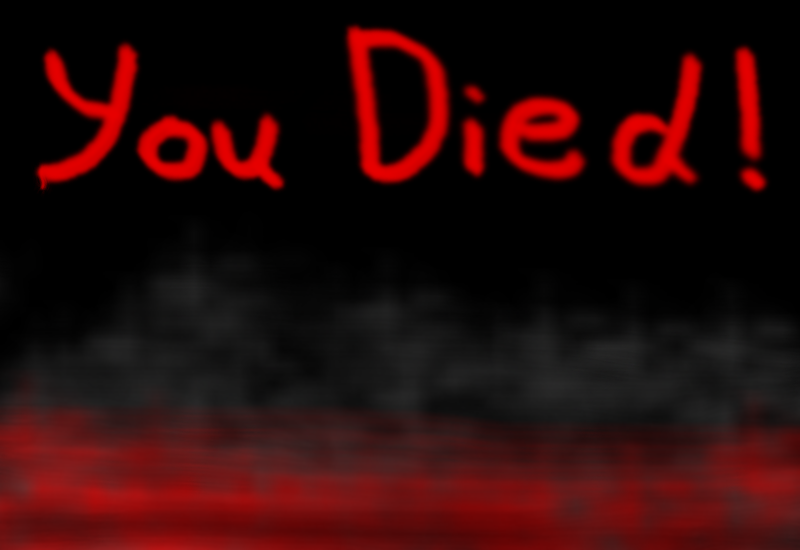
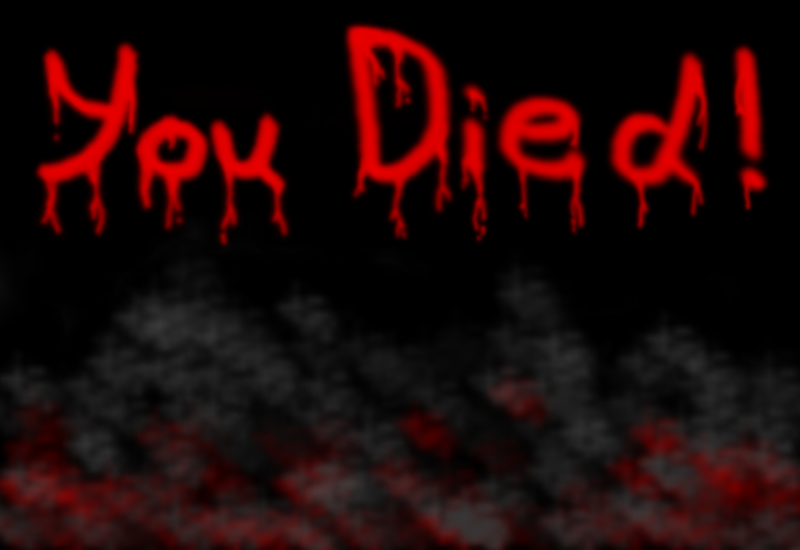
Added a second level

diff --git a/Dungeon Hunter/dungeon_hunter_game.rb b/Dungeon Hunter/dungeon_hunter_game.rb
@@ -1,21 +1,31 @@
 require 'Chingu'
+require './dungeon_hunter_game2.rb'
 
 class Game < Chingu::Window
 
 	def initialize
 		super 800, 550
-		self.caption = "Dungeon Hunter"
+		switch_game_state(PlayGame)
+	end
+
+end
+
+class PlayGame < Chingu::GameState
+
+	def initialize
+		super
+		$window.caption = "Dungeon Hunter"
 		self.input = {esc: :exit}
 		@background_image = Background.create
-		Wall.create(x: 25/2, y: 550/2, image: "left_wall.png")
-		Wall.create(x: 800/2, y: 25/2, image: "wall_up_down.png")
-		Wall.create(x: 800/2, y: 550-(25/2), image: "wall_up_down.png")
-		Wall.create(x: 800-(25/2), y: (550/2)-50, image: "right_wall.png")
+		@left_wall = Wall.create(x: 25/2, y: 550/2, image: "left_wall.png")
+		@up_wall = Wall.create(x: 800/2, y: 25/2, image: "wall_up_down.png")
+		@down_wall = Wall.create(x: 800/2, y: 550-(25/2), image: "wall_up_down.png")
+		@right_wall = Wall.create(x: 800-(25/2), y: (550/2)-50, image: "right_wall.png")
 		@enemie1 = EnemieLvL1.create(x: 300, y: 200)
-		@enemie1 = EnemieLvL1.create(x: 200, y: 300)
-		@enemie1 = EnemieLvL1.create(x: 500, y: 250)
-		@enemie1 = EnemieLvL1.create(x: 500, y: 450)
-		@enemie1 = EnemieLvL1.create(x: 700, y: 75)
+		@enemie2 = EnemieLvL1.create(x: 200, y: 300)
+		@enemie3 = EnemieLvL1.create(x: 500, y: 250)
+		@enemie4 = EnemieLvL1.create(x: 500, y: 450)
+		@enemie5 = EnemieLvL1.create(x: 700, y: 75)
 		@player = Player.create
 	end
 
@@ -33,6 +43,26 @@ class Game < Chingu::Window
 		Player.each_collision(EnemieLvL1) do |hp, player|
 			hp.hp_down
 		end
+		
+		if @player.hp <= 0
+			@player.destroy
+			@background_image.destroy
+			@enemie1.destroy
+			@enemie2.destroy
+			@enemie3.destroy
+			@enemie4.destroy
+			@enemie5.destroy
+			@left_wall.destroy
+			@up_wall.destroy
+			@down_wall.destroy
+			@right_wall.destroy
+			
+			@background_image = Dead.create
+		end
+
+		if @player.x < 0 or @player.x > 800 or @player.y < 0 or @player.y > 550
+			push_game_state(LvL2)
+		end
 	end
 end
 
@@ -40,8 +70,17 @@ end
 class Background < Chingu::GameObject
 
 	def setup
+
 		@x, @y = 800/2, 550/2
 		@image = Gosu::Image["background.png"]
+	end
+end
+
+class Dead < Chingu::GameObject
+
+	def setup
+		@x, @y = 800/2, 550/2
+		@image = Gosu::Image["dead.png"]
 	end
 end
 
@@ -51,7 +90,7 @@ end
 
 class Player < Chingu::GameObject
 	attr_writer :x, :y
-	attr_reader :angle_shot
+	attr_reader :angle_shot, :hp
 	has_traits :velocity, :collision_detection, :bounding_box, :timer
 	
 	def setup
@@ -100,9 +139,6 @@ class Player < Chingu::GameObject
 			end
 		end
 
-		if @x < 0 or @x > 800 or @y < 0 or @y > 550
-
-		end	
 	end
 
 	def hp_down
@@ -112,9 +148,6 @@ class Player < Chingu::GameObject
 			after(1000) {@hpDown = false}	
 		end
 		
-		if @hp <= 0
-			self.destroy
-		end
 	end
 
 	def lock_check

diff --git a/Dungeon Hunter/dungeon_hunter_game2.rb b/Dungeon Hunter/dungeon_hunter_game2.rb
@@ -1,0 +1,48 @@
+class LvL2 < Chingu::GameState
+
+	def setup
+		super
+		self.input = {esc: :exit}
+
+		@background_image = Background.create
+		@left_wall = Wall.create(x: 25/2, y: 550/2, image: "left_wall.png")
+		@up_wall = Wall.create(x: 800/2, y: 25/2, image: "wall_up_down.png")
+		@down_wall = Wall.create(x: 800/2, y: 550-(25/2), image: "wall_up_down.png")
+		@right_wall = Wall.create(x: 800-(25/2), y: (550/2)-50, image: "right_wall.png")
+		@enemie1 = EnemieLvL1.create(x: 500, y:500)
+		@player = Player.create
+	end
+
+	def update
+	super
+	Laser.each_collision(Wall) do |laser|
+		laser.destroy
+	end
+
+	Laser.each_collision(EnemieLvL1) do |laser, enemie|
+		laser.destroy
+		enemie.destroy
+	end
+
+	Player.each_collision(EnemieLvL1) do |hp, player|
+		hp.hp_down
+	end
+	
+	if @player.hp <= 0
+		@player.destroy
+		@background_image.destroy
+		@enemie1.destroy
+		@left_wall.destroy
+		@up_wall.destroy
+		@down_wall.destroy
+		@right_wall.destroy
+		
+		@background_image = Dead.create
+	end
+
+	if @player.x < 0 or @player.x > 800 or @player.y < 0 or @player.y > 550
+		#switch_game_state(LvL3)
+	end
+end
+end
+
